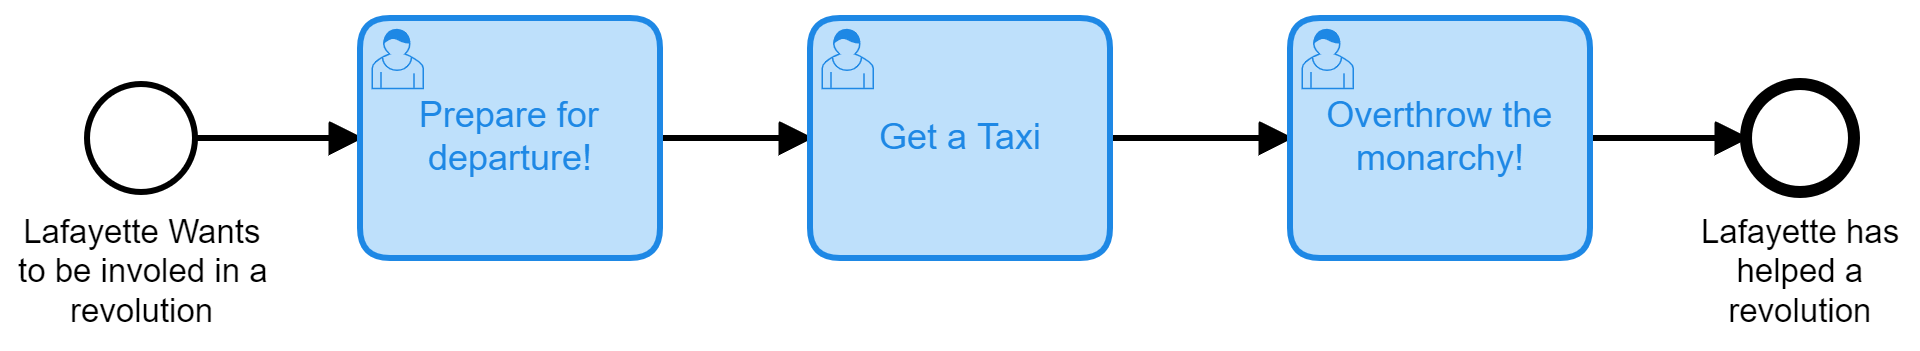
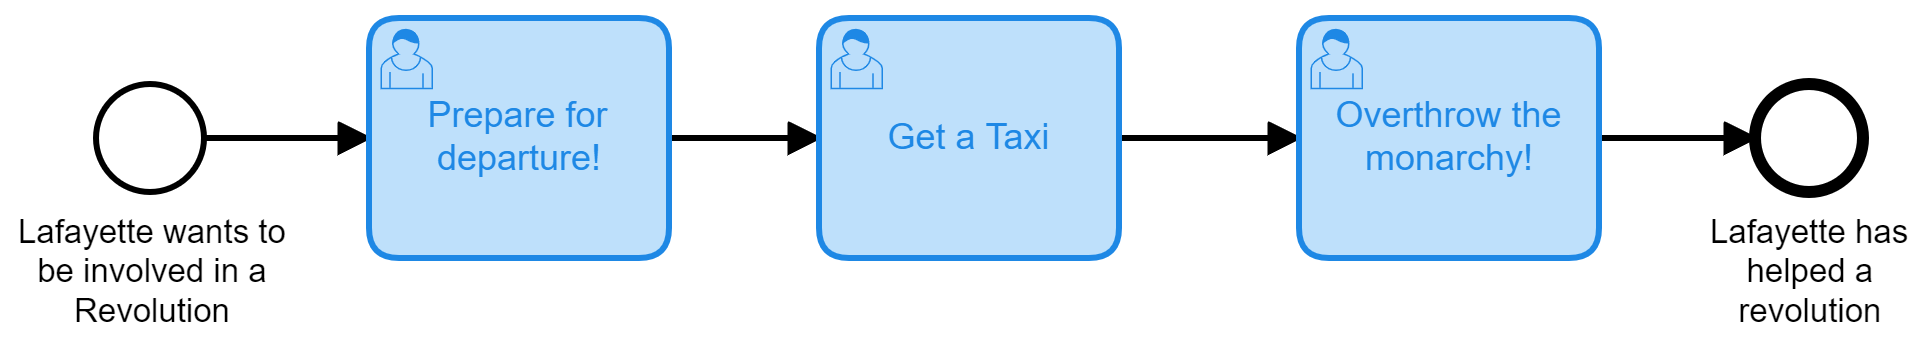
Fixed typos

diff --git a/README.md b/README.md
@@ -14,7 +14,7 @@ This is broken up into 4 parts and in the end we're looking a process that will 
 * How to create forms and link them to user tasks
 * How to write java classes that can be run by Service Tasks
 * How to configure an XOR gateway based on process data
-* How to configure non-interupting timer events
+* How to configure non-interrupting timer events
 * How to trigger and catch BPMN errors thrown from Java Code
 
 
